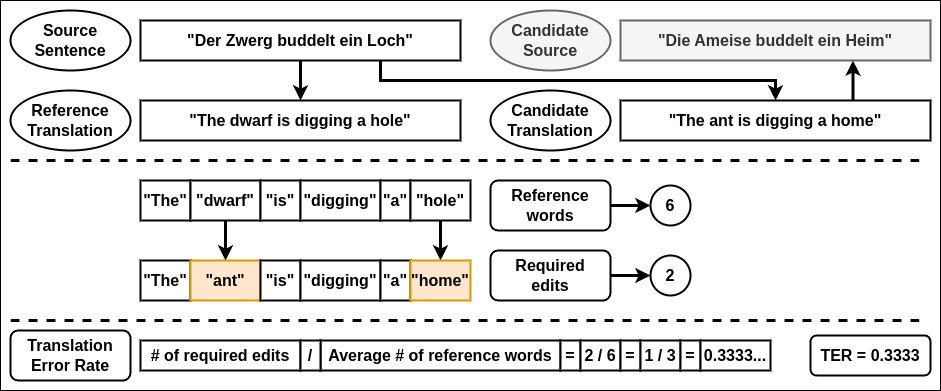
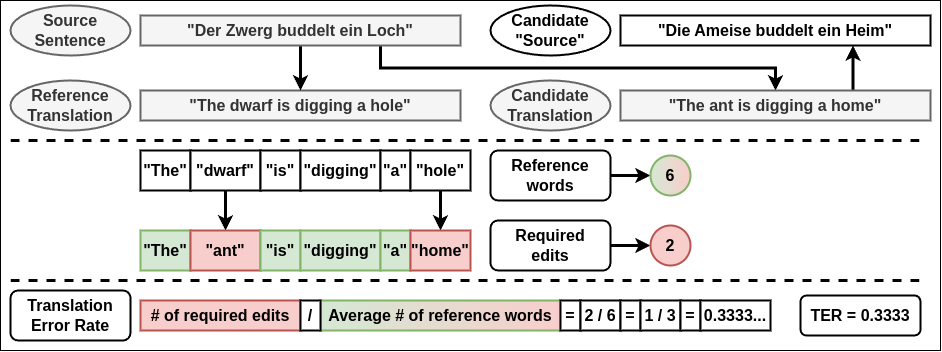
Update format

diff --git a/src/slides.svelte b/src/slides.svelte
@@ -702,30 +702,249 @@
 	-->
 	<Slide><Layout>
 		<titlebar > Synthetic Data </titlebar>
-		<mybody>
-			<div class="flex items-center justify-center">
-				<figure class="mx-auto my-auto h-[60%] w-[60%]" >
-					<img src="construction-itsupport.png" alt="relatedworkview" style="max-height:100%; max-width:100%;">
-				<figcaption class="text-[1.8vh]">
-					Results
+		<mybody style="flex-direction:column">
+			<!-- <div class="flex items-center justify-center"> -->
+				<table class="text-[2.6vh]" style="width:100%">
+					<!-- <colgroup>
+						<col span="1" style="background-color: #66d666">
+						<col span="1" style="background-color: #cc66d6">
+						<col span="1" style="background-color: #66d3d6">
+						<col span="1" style="background-color: #d66866">
+						<col span="1" style="background-color: #b2fffd">
+					</colgroup> -->
+				<tr>  
+					<th>Source</th>
+					<th>Target</th>
+					<th>Data Quality</th>
+					<th>Feature Validity</th>
+					<th>Perturbation Type</th>
+					<th style="width:70%">Sentence</th>
+				</tr>  
+				<tr>  
+					<th style="background-color: #ebf067">German</th>
+					<th style="background-color: #66d666">Bavarian</th>
+					<th>Clean</th>
+					<th>Reference</th>
+					<th>None</th>
+					<th>Die Sprache ist vom Aussterben bedroht , da sie nur von über 60-Jährigen gesprochen wird .</th> 
+				</tr>
+				<tr>  
+					<th></th>
+					<th></th>
+					<th></th>
+					<th></th>
+					<th></th>
+					<th></th>
+				</tr>
+				<tr>  
+					<th style="background-color: #ebf067">German</th>
+					<th style="background-color: #66d666">Bavarian</th>
+					<th>Clean</th>
+					<th style="background-color: #b2fffd">Reason</th>
+					<th style="background-color: #ff8383">Lex</th>
+					<th>Die lateinischn ist vom aussterm bedroht , da sie nur von über 60-Jährigen gsprochn wird .</th>
+				</tr>
+				<tr>  
+					<th style="background-color: #ebf067">German</th>
+					<th style="background-color: #66d666">Bavarian</th>
+					<th>Clean</th>
+					<th style="background-color: #b2fffd">Reason</th>
+					<th style="background-color: #d2b0fe">All</th>
+					<th>Die lateinischn ist vom aussterm bedroht , da sie nur von über 60-Jährigen gsprochn wird .</th>
+				</tr>
+				<tr>  
+					<th style="background-color: #ebf067">German</th>
+					<th style="background-color: #66d666">Bavarian</th>
+					<th>Clean</th>
+					<th style="background-color: #b2fffd">Reason</th>
+					<th style="background-color: #618eff">Mor</th>
+					<th>Dien Sproch ists vom Aussterbn bedrohts , da sien <mark>nua</mark> von üba 60-Jähring gsprochn wird .</th>
+				</tr>
+				<tr>  
+					<th></th>
+					<th></th>
+					<th></th>
+					<th></th>
+					<th></th>
+					<th></th>
+				</tr>
+				<tr>  
+					<th style="background-color: #ebf067">German</th>
+					<th style="background-color: #66d666">Bavarian</th>
+					<th>Clean</th>
+					<th style="background-color: #7afffc">Relaxed</th>
+					<th style="background-color: #d2b0fe">All</th>
+					<th>Die lateinischn ist vom aussterm bedroht , da sie nur von über 60-Jährigen gsprochn wird .</th>
+				</tr>
+				<tr>  
+					<th style="background-color: #ebf067">German</th>
+					<th style="background-color: #66d666">Bavarian</th>
+					<th>Clean</th>
+					<th style="background-color: #7afffc">Relaxed</th>
+					<th style="background-color: #618eff">Mor</th>
+					<th class="text-[2.0vh]">Dien sprouch ischt vom aassderbn popbedrohd , da'n sien <mark>nua</mark> vonisch us̈popba 60-Ja'n̈hring gsprouchn wirdo .</th>
+				</tr>
+				<tr>  
+					<th></th>
+					<th></th>
+					<th></th>
+					<th></th>
+					<th></th>
+					<th></th>
+				</tr>
+				<tr>
+					<th style="background-color: #66d666">Bavarian</th>
+					<th style="background-color: #ebf067">German</th>
+					<th>Clean</th>
+					<th style="background-color: #7afffc">Relaxed</th>
+					<th style="background-color: #618eff">Mor</th>
+					<th class="text-[1.8vh]">Den sprachs ies voms austerms gelbedarohts weuch wassersen nur vos Leuten den iwas 60 jahr oit wassersern geredet wiert .</th>
+				</tr>
+				<tr>
+					<th style="background-color: #66d666">Bavarian</th>
+					<th style="background-color: #ebf067">German</th>
+					<th>Clean</th>
+					<th style="background-color: #7afffc">Relaxed</th>
+					<th style="background-color: #d2b0fe">All</th>
+					<th class="text-[2.4vh]">drei sprach kommt vom Aasterm bedroht wei se nua seit Leid drei iwa 60 jahre oid saint gredd wiad .</th>
+				</tr>
+				<tr>  
+					<th></th>
+					<th></th>
+					<th></th>
+					<th></th>
+					<th></th>
+					<th></th>
+				</tr>
+				<tr>
+					<th style="background-color: #66d666">Bavarian</th>
+					<th style="background-color: #ebf067">German</th>
+					<th>Clean</th>
+					<th style="background-color: #b2fffd">Reason</th>
+					<th style="background-color: #618eff">Mor</th>
+					<th class="text-[2.2vh]">Den Sprache ises voms Aasterms bedrohts weich sen nur vos Leit den iwas 60 Joars oit sans gredds wiert .</th>
+				</tr>
+				<tr>
+					<th style="background-color: #66d666">Bavarian</th>
+					<th style="background-color: #ebf067">German</th>
+					<th>Clean</th>
+					<th style="background-color: #b2fffd">Reason</th>
+					<th style="background-color: #d2b0fe">All</th>
+					<th class="text-[2.2vh]">drei sprach bedeutet vom Aasterm bedroht wei se nua seit Leid drei iwa 60 jahres oid saint gredd wiad .</th>
+				</tr>
+				<tr>
+					<th style="background-color: #66d666">Bavarian</th>
+					<th style="background-color: #ebf067">German</th>
+					<th>Clean</th>
+					<th style="background-color: #b2fffd">Reason</th>
+					<th style="background-color: #ff8383">Lex</th>
+					<th class="text-[2.4vh]">drei sprach fiel vom Aasterm bedroht wei se nua seit Leid drei iwa 60 jahr oid bilden gredd wiad .</th>
+				</tr>
+				<tr>  
+					<th></th>
+					<th></th>
+					<th></th>
+					<th></th>
+					<th></th>
+					<th></th>
+				</tr>
+				<tr>  
+					<th style="background-color: #66d666">Bavarian</th>
+					<th style="background-color: #ebf067">German</th>
+					<th>Clean</th>
+					<th>Reference</th>
+					<th>None</th>
+					<th>De Sproch is vom Aasterm bedroht wei se nua vo Leid de iwa 60 Joar oid san gredd wiad .</th>
+				</tr>
+				</table>
+				<figcaption class="text-[3.8vh]">
+					"Reason": 5 or more occurrences & length of less than 6
+					<br> "Relaxed": 1 or more occurrences & length of less than 7
 				</figcaption>
-				</figure>
-			</div>
 		</mybody>
 	</Layout></Slide>
+	<!--
+		German - Bavarian - Reference
+		Die Sprache ist vom Aussterben bedroht , da sie nur von über 60-Jährigen gesprochen wird .
+
+		German - Bavarian - Clean - Reason - Lex
+		Die lateinischn ist vom aussterm bedroht , da sie nur von über 60-Jährigen gsprochn wird .
+
+		German - Bavarian - Clean - Reason - All
+		Die lateinischn ist vom aussterm bedroht , da sie nur von über 60-Jährigen gsprochn wird .
+
+		German - Bavarian - Clean - Reason - Mor
+		Dien Sproch ists vom Aussterbn bedrohts , da sien nua von üba 60-Jähring gsprochn wird .
+
+		German - Bavarian - Clean - Relaxed - All
+		Die lateinischn ist vom aussterm bedroht , da sie nur von über 60-Jährigen gsprochn wird .
+
+		German - Bavarian - Clean - Relaxed - Mor
+		Dien sprouch ischt vom aassderbn popbedrohd , da'n sien nua vonisch us̈popba 60-Ja'n̈hring gsprouchn wirdo .
+
+		Bavarian - German - Clean - Relaxed - Mor
+		Den sprachs ies voms austerms gelbedarohts weuch wassersen nur vos Leuten den iwas 60 jahr oit wassersern geredet wiert .
+
+		Bavarian - German - Clean - Relaxed - All
+		drei sprach kommt vom Aasterm bedroht wei se nua seit Leid drei iwa 60 jahre oid saint gredd wiad .
+
+		Bavarian - German - Clean - Reason - Mor
+		Den Sprache ises voms Aasterms bedrohts weich sen nur vos Leit den iwas 60 Joars oit sans gredds wiert .
+
+		Bavarian - German - Clean - Reason - All
+		drei sprach bedeutet vom Aasterm bedroht wei se nua seit Leid drei iwa 60 jahres oid saint gredd wiad .
+
+		Bavarian - German - Clean - Reason - Lex
+		drei sprach fiel vom Aasterm bedroht wei se nua seit Leid drei iwa 60 jahr oid bilden gredd wiad .
+
+		Bavarian - German - Reference
+		De Sproch is vom Aasterm bedroht wei se nua vo Leid de iwa 60 Joar oid san gredd wiad .
+	-->
 	
 	<!-- 
 	TODO: (15/29) Evaluation Metrics
 	Issues with BLEU
 	-->
 	<Slide><Layout>
-		<titlebar > Evaluation Metrics </titlebar>
+		<titlebar > Evaluation Metrics - BLEU (Papineni et al., 2002)</titlebar>
 		<mybody>
 			<div class="flex items-center justify-center">
-				<figure class="mx-auto my-auto h-[60%] w-[60%]" >
-					<img src="construction-itsupport.png" alt="relatedworkview" style="max-height:100%; max-width:100%;">
+				<figure class="mx-auto my-auto h-[100%] w-[100%]" >
+					<img src="ChameleonMT-EVAL-BLEU.png" alt="evaluationBLEU" style="max-height:100%; max-width:100%;">
 				<figcaption class="text-[1.8vh]">
-					Results
+					BLEU (Bilingual Evaluation Understudy): is an evaluation metric that matches n-grams for evaluation of translation with explicit ordering.  
+					<br> Designed to be used for several reference translation, in practice it's used with only the single one.  
+					<br> BLEU is infamously dependent on the tokenization technique, and scores achieved with different ones are incomparable. (Post, 2018)
+				</figcaption>
+				</figure>
+			</div>
+		</mybody>
+	</Layout></Slide>
+
+	<Slide><Layout>
+		<titlebar > Evaluation Metrics - TER (Snover et al., 2005) </titlebar>
+		<mybody>
+			<div class="flex items-center justify-center">
+				<figure class="mx-auto my-auto h-[100%] w-[100%]" >
+					<img src="ChameleonMT-EVAL-TER.png" alt="evaluationBLEU" style="max-height:100%; max-width:100%;">
+				<figcaption class="text-[1.8vh]">
+					TER (Translation Error (sometimes Edit) Rate): is a useful metric for evaluating machine translation quality, and it can be effective even in low-resourced scenarios.
+				</figcaption>
+				</figure>
+			</div>
+		</mybody>
+	</Layout></Slide>
+
+	<Slide><Layout>
+		<titlebar > Evaluation Metrics - chrF (Popović, 2015)</titlebar>
+		<mybody>
+			<div class="flex items-center justify-center">
+				<figure class="mx-auto my-auto h-[100%] w-[100%]" >
+					<img src="ChameleonMT-EVAL-chrF.png" alt="evaluationBLEU" style="max-height:100%; max-width:100%;">
+				<figcaption class="text-[1.8vh]">
+					chrF (Character n-gram F-score): is a robust metric for evaluating translation quality, especially for languages with complex morphology. 
+					<br> It’s less sensitive to tokenization issues and can provide a more nuanced view of translation quality by focusing on character-level matches. 
+					<br> This makes it particularly useful for low-resourced languages or those with rich morphological variations.
 				</figcaption>
 				</figure>
 			</div>
